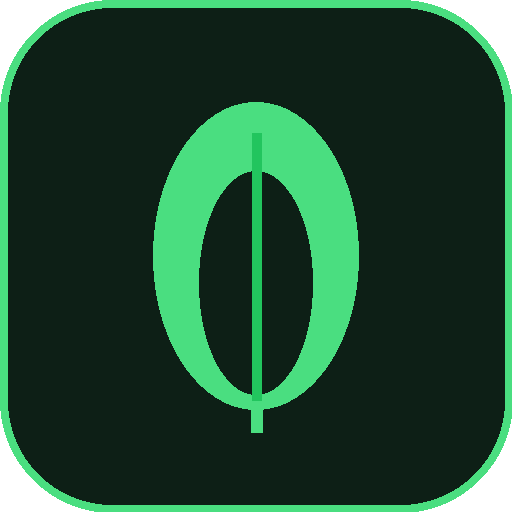
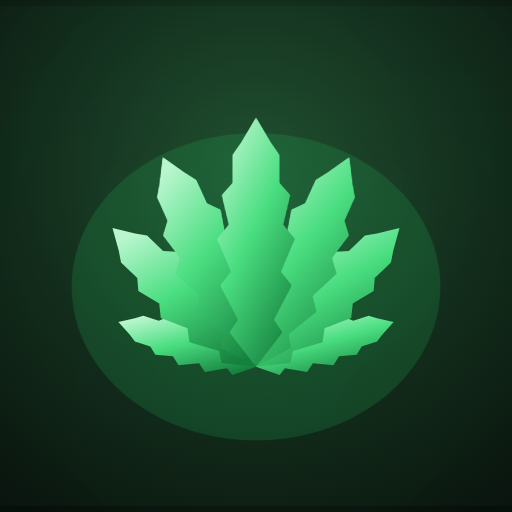
🌿 Wektorowe ikony zamiast emoji: liść marihuany jako znak, grafiki metod, nowe ikony PWA
- nowy icons.js: inline SVG (offline, dziedziczy kolor, skaluje się)
- 6 rysowanych grafik metod: dab, vape, waporyzator, joint, ciastko, buteleczka
- każda metoda ma własny kolor akcentu (ikona + kafelek w historii)
- znak aplikacji: liść marihuany (7 listków) — też w ikonach PWA 192/512/maskable
- ilustracja pustego stanu, ikony w przyciskach, modalu, toaście i liczniku limitu
- sw.js: cache v7 + icons.js w prekecie

diff --git a/icons.js b/icons.js
@@ -1,0 +1,92 @@
+/* ===== IKONY: wektorowe, inline SVG (offline, dziedziczą kolor, skalują się) ===== */
+(() => {
+  const ICONS = {
+    /* --- znak / logo: liść marihuany (7 listków) --- */
+    leaf: `<g fill="currentColor" stroke="none">
+      <path d="M12 21.8L13.52 22.34L13.86 21.9L15.28 22.14L15.65 21.59L16.97 21.71L17.33 21.13L18.46 21.04L18.78 20.51L19.77 20.19L20.11 19.74L20.83 18.93L19.77 18.7L19.23 18.54L18.24 18.86L17.67 18.61L16.71 19.2L16.08 18.95L15.08 19.82L14.46 19.6L13.45 20.63L12.91 20.47Z"/>
+      <path d="M12 21.8L11.09 20.47L10.55 20.63L9.54 19.6L8.92 19.82L7.92 18.95L7.29 19.2L6.33 18.61L5.76 18.86L4.77 18.54L4.23 18.7L3.17 18.93L3.89 19.74L4.23 20.19L5.22 20.51L5.54 21.04L6.67 21.13L7.03 21.71L8.35 21.59L8.72 22.14L10.14 21.9L10.48 22.34Z"/>
+      <path d="M12 21.8L14.21 21.56L14.37 20.79L16.27 20.23L16.4 19.33L18.11 18.68L18.21 17.75L19.55 16.95L19.62 16.11L20.66 15.11L20.81 14.34L21.21 12.91L19.76 13.25L18.99 13.38L17.96 14.38L17.11 14.42L16.26 15.74L15.33 15.8L14.62 17.49L13.71 17.59L13.09 19.47L12.32 19.6Z"/>
+      <path d="M12 21.8L11.68 19.6L10.91 19.47L10.29 17.59L9.38 17.49L8.67 15.8L7.74 15.74L6.89 14.42L6.04 14.38L5.01 13.38L4.24 13.25L2.79 12.91L3.19 14.34L3.34 15.11L4.38 16.11L4.45 16.95L5.79 17.75L5.89 18.68L7.6 19.33L7.73 20.23L9.63 20.79L9.79 21.56Z"/>
+      <path d="M12 21.8L14.25 20.59L14.09 19.71L15.88 18.29L15.63 17.27L17.17 15.84L16.88 14.81L17.97 13.38L17.68 12.44L18.35 10.93L18.19 10.05L17.99 8.35L16.59 9.34L15.83 9.81L15.15 11.32L14.27 11.73L13.93 13.5L12.97 13.97L12.94 16.07L12.01 16.57L12.16 18.85L11.39 19.31Z"/>
+      <path d="M12 21.8L12.61 19.31L11.84 18.85L11.99 16.57L11.06 16.07L11.03 13.97L10.07 13.5L9.73 11.73L8.85 11.32L8.17 9.81L7.41 9.34L6.01 8.35L5.81 10.05L5.65 10.93L6.32 12.44L6.03 13.38L7.12 14.81L6.83 15.84L8.37 17.27L8.12 18.29L9.91 19.71L9.75 20.59Z"/>
+      <path d="M12 21.8L13.7 19.6L13.15 18.8L14.3 16.6L13.6 15.7L14.5 13.6L13.75 12.7L14.2 10.8L13.5 10L13.5 8.2L12.95 7.4L12 5.8L11.05 7.4L10.5 8.2L10.5 10L9.8 10.8L10.25 12.7L9.5 13.6L10.4 15.7L9.7 16.6L10.85 18.8L10.3 19.6Z"/>
+    </g>
+    <path d="M12 21.4v2.2" stroke="currentColor" stroke-width="1.3" fill="none" stroke-linecap="round"/>`,
+
+    /* --- UI --- */
+    sliders: `<path d="M4.6 8h14.8"/><path d="M4.6 16h14.8"/>
+      <circle cx="9.4" cy="8" r="2.3"/><circle cx="15" cy="16" r="2.3"/>`,
+    bolt: `<path d="M13.5 2.6 5.1 13.2h5.4l-1 8.2 8.4-10.6h-5.4l1-8.2Z"/>`,
+    clock: `<circle cx="12" cy="12" r="8.6"/><path d="M12 7.2V12l3.3 2.1"/>`,
+    download: `<path d="M12 3.4v10.8"/><path d="M7.7 10.1 12 14.4l4.3-4.3"/>
+      <path d="M4.7 17.2v1.2a2.4 2.4 0 0 0 2.4 2.4h9.8a2.4 2.4 0 0 0 2.4-2.4v-1.2"/>`,
+    trash: `<path d="M4.2 6.8h15.6"/>
+      <path d="M9.5 6.8V5.2a1.4 1.4 0 0 1 1.4-1.4h2.2a1.4 1.4 0 0 1 1.4 1.4v1.6"/>
+      <path d="M6.6 6.8 7.4 19a2.1 2.1 0 0 0 2.1 2h5a2.1 2.1 0 0 0 2.1-2l.8-12.2"/>
+      <path d="M10.4 10.6v6.2M13.6 10.6v6.2"/>`,
+    close: `<path d="M6.4 6.4 17.6 17.6M17.6 6.4 6.4 17.6"/>`,
+    check: `<path d="M4.9 12.7 9.7 17.5 19.1 6.5"/>`,
+    alert: `<circle cx="12" cy="12" r="8.6"/><path d="M12 7.6v5"/>
+      <circle cx="12" cy="16.3" r="1" fill="currentColor" stroke="none"/>`,
+    sparkle: `<path d="M12 3.2l1.85 4.95L18.8 10l-4.95 1.85L12 16.8l-1.85-4.95L5.2 10l4.95-1.85L12 3.2Z"/>
+      <path d="M18.4 15.4l.75 2 2 .75-2 .75-.75 2-.75-2-2-.75 2-.75.75-2Z"/>`,
+
+    /* --- metody: rysowane obiekty --- */
+    dab: `<path d="M12 2.9c1.8 2.15 2.7 3.6 2.7 4.85a2.7 2.7 0 0 1-5.4 0c0-1.25.9-2.7 2.7-4.85Z"/>
+      <path d="M8.3 11.7h7.4l-1 5.15a2.15 2.15 0 0 1-2.11 1.75h-1.18a2.15 2.15 0 0 1-2.11-1.75l-1-5.15Z"/>
+      <path d="M12 18.6v2.3"/>`,
+
+    vape: `<rect x="8.6" y="9.5" width="6.8" height="11.2" rx="2.6"/>
+      <path d="M10.4 9.5V7.3a1.6 1.6 0 0 1 3.2 0v2.2"/>
+      <circle cx="12" cy="13.4" r="1.05" fill="currentColor" stroke="none"/>
+      <path d="M15.7 6.5c1.15-.95 1.15-2.3 0-3.25"/>
+      <path d="M18 8c1.5-1.25 1.5-3.05 0-4.3"/>`,
+
+    vapor: `<rect x="7.7" y="8.5" width="8.6" height="12.2" rx="3.1"/>
+      <path d="M10.3 8.5V6.8a1.7 1.7 0 0 1 3.4 0v1.7"/>
+      <rect x="9.9" y="11.3" width="4.2" height="3.3" rx="1.1"/>
+      <path d="M18.4 7.4c1.05-.9 1.05-2.15 0-3.05"/>`,
+
+    smoke: `<rect x="6.6" y="13.1" width="13.2" height="3.7" rx="1.75"/>
+      <path d="M17.1 13.4v3.1"/>
+      <circle cx="8.5" cy="14.95" r="1.15" fill="currentColor" stroke="none"/>
+      <path d="M9.5 11.3c1.25-1 1.25-2.4 0-3.4"/>
+      <path d="M12.7 11c1.6-1.3 1.6-3.1 0-4.4"/>`,
+
+    edible: `<path d="M12 3.6a8.4 8.4 0 1 0 0 16.8 8.4 8.4 0 0 0 0-16.8Z"/>
+      <circle cx="9.1" cy="9.9" r="1.15" fill="currentColor" stroke="none"/>
+      <circle cx="14.6" cy="8.9" r="1.15" fill="currentColor" stroke="none"/>
+      <circle cx="10.4" cy="14.8" r="1.15" fill="currentColor" stroke="none"/>
+      <circle cx="15.2" cy="13.9" r="1.15" fill="currentColor" stroke="none"/>
+      <circle cx="12.3" cy="11.9" r=".8" fill="currentColor" stroke="none"/>`,
+
+    oil: `<path d="M8.6 11.5h6.8a2 2 0 0 1 2 2v5.4a2 2 0 0 1-2 2H8.6a2 2 0 0 1-2-2v-5.4a2 2 0 0 1 2-2Z"/>
+      <path d="M10.4 11.5V9.8h3.2v1.7"/>
+      <path d="M9.9 6.3h4.2a1.1 1.1 0 0 1 1.1 1.1v2.4H8.8V7.4A1.1 1.1 0 0 1 9.9 6.3Z"/>
+      <path d="M12 3.1v3.2"/>
+      <path d="M9.4 16.2h5.2"/>`,
+  };
+
+  const SVG_ATTRS = 'viewBox="0 0 24 24" fill="none" stroke="currentColor" stroke-width="1.7" ' +
+    'stroke-linecap="round" stroke-linejoin="round" aria-hidden="true" focusable="false"';
+
+  function svgIcon(name, cls) {
+    const body = ICONS[name];
+    if (!body) return '';
+    return `<svg class="${cls || 'ico'}" ${SVG_ATTRS}>${body}</svg>`;
+  }
+
+  window.svgIcon = svgIcon;
+
+  function hydrate(root) {
+    (root || document).querySelectorAll('[data-icon]').forEach(el => {
+      if (el.dataset.iconDone) return;
+      el.dataset.iconDone = '1';
+      el.insertAdjacentHTML('afterbegin', svgIcon(el.dataset.icon, el.dataset.iconClass || 'ico'));
+    });
+  }
+
+  window.hydrateIcons = hydrate;
+  if (document.readyState === 'loading') document.addEventListener('DOMContentLoaded', () => hydrate());
+  else hydrate();
+})();

diff --git a/app.js b/app.js
@@ -1,10 +1,10 @@
 const METHODS = [
-  { id:'dab',    icon:'💧', name:'Dab' },
-  { id:'vape',   icon:'💨', name:'Vape' },
-  { id:'vapor',  icon:'🌬', name:'Waporyzator' },
-  { id:'smoke',  icon:'🚬', name:'Palenie' },
-  { id:'edible', icon:'🍪', name:'Edibles' },
-  { id:'oil',    icon:'🧴', name:'Olejek/Tincture' },
+  { id:'dab',    name:'Dab' },
+  { id:'vape',   name:'Vape' },
+  { id:'vapor',  name:'Waporyzator' },
+  { id:'smoke',  name:'Palenie' },
+  { id:'edible', name:'Edibles' },
+  { id:'oil',    name:'Olejek/Tincture' },
 ];
 
 const LS_ENTRIES = 'thc_entries_v1';
@@ -37,8 +37,9 @@ function sameDay(a, b) {
 /* --- metody --- */
 function renderMethods() {
   $('methods').innerHTML = METHODS.map(m =>
-    `<button class="method ${m.id === selectedMethod ? 'active' : ''}" data-id="${m.id}">
-       <span class="m-icon">${m.icon}</span><span class="m-name">${m.name}</span>
+    `<button class="method m-${m.id} ${m.id === selectedMethod ? 'active' : ''}" data-id="${m.id}"
+       aria-pressed="${m.id === selectedMethod}">
+       <span class="m-icon">${svgIcon(m.id)}</span><span class="m-name">${m.name}</span>
      </button>`).join('');
   document.querySelectorAll('.method').forEach(b =>
     b.onclick = () => { selectedMethod = b.dataset.id; renderMethods(); });
@@ -64,13 +65,14 @@ function renderStats() {
   if (settings.goal > 0) {
     const pct = Math.min(100, todayCount / settings.goal * 100);
     fill.style.width = pct + '%';
-    fill.classList.toggle('over', todayCount > settings.goal);
-    txt.textContent = todayCount > settings.goal
-      ? `⚠ Limit przekroczony: ${todayCount}/${settings.goal}`
-      : `Dzisiejszy limit: ${todayCount}/${settings.goal}`;
+    const over = todayCount > settings.goal;
+    fill.classList.toggle('over', over);
+    txt.classList.toggle('over', over);
+    txt.innerHTML = (over ? svgIcon('alert') : '') +
+      `<span>${over ? 'Limit przekroczony' : 'Dzisiejszy limit'}: ${todayCount}/${settings.goal}</span>`;
   } else {
     fill.style.width = '0';
-    txt.textContent = 'Ustaw limit dzienny w ustawieniach ⚙';
+    txt.innerHTML = svgIcon('sliders') + '<span>Ustaw limit dzienny w ustawieniach</span>';
   }
 }
 
@@ -98,19 +100,25 @@ function methodOf(id) { return METHODS.find(m => m.id === id) || METHODS[0]; }
 function renderHistory() {
   const el = $('history');
   const sorted = [...entries].sort((a, b) => b.t - a.t).slice(0, 100);
-  if (!sorted.length) { el.innerHTML = '<div class="empty">Brak wpisów — zapisz pierwszą sesję 🌿</div>'; return; }
+  if (!sorted.length) {
+    el.innerHTML = `<div class="empty">
+      <span class="empty-art">${svgIcon('leaf')}</span>
+      <div class="empty-txt">Brak wpisów — zapisz pierwszą sesję, żeby zacząć śledzić swój rytm</div>
+    </div>`;
+    return;
+  }
   el.innerHTML = sorted.map(e => {
     const m = methodOf(e.m);
     const d = new Date(e.t);
     const when = d.toLocaleDateString('pl-PL', { day: 'numeric', month: 'short' }) + ' ' +
                  d.toLocaleTimeString('pl-PL', { hour: '2-digit', minute: '2-digit' });
     const extra = [e.amount ? e.amount : '', e.note || ''].filter(Boolean).join(' · ');
-    return `<div class="entry">
-      <span class="e-icon">${m.icon}</span>
+    return `<div class="entry m-${m.id}">
+      <span class="e-icon">${svgIcon(m.id)}</span>
       <div class="e-main"><div class="e-method">${m.name}</div>
       ${extra ? `<div class="e-note">${extra}</div>` : ''}</div>
       <div class="e-time">${when}</div>
-      <button class="e-del" data-id="${e.id}" title="Usuń">✕</button>
+      <button class="e-del" data-id="${e.id}" title="Usuń" aria-label="Usuń wpis">${svgIcon('close')}</button>
     </div>`;
   }).join('');
   el.querySelectorAll('.e-del').forEach(b => b.onclick = () => {
@@ -134,7 +142,7 @@ function addEntry(ts) {
   $('amountInput').value = ''; $('noteInput').value = '';
   renderAll();
   const m = methodOf(selectedMethod);
-  toast(`${m.icon} Zapisano: ${m.name}`);
+  toast(`Zapisano: ${m.name}`, m.id);
   // eksplozja cząsteczek z miejsca kliknięcia
   const btn = $('logNow').getBoundingClientRect();
   if (window.fxBurst) fxBurst(btn.left + btn.width / 2, btn.top + btn.height / 2);
@@ -155,7 +163,7 @@ $('cancelTime').onclick = closeTimeModal;
 $('timeModal').addEventListener('click', e => { if (e.target === $('timeModal')) closeTimeModal(); });
 $('confirmTime').onclick = () => {
   const v = $('customTime').value;
-  if (!v) { toast('⚠ Wybierz datę i godzinę'); return; }
+  if (!v) { toast('Wybierz datę i godzinę', 'alert'); return; }
   addEntry(new Date(v).getTime());
   closeTimeModal();
 };
@@ -185,21 +193,22 @@ $('saveSettings').onclick = () => {
   settings.nick = $('nickInput').value.trim();
   save(); renderAll();
   $('settingsModal').classList.add('hidden');
-  toast('✅ Zapisano ustawienia');
+  toast('Zapisano ustawienia', 'check');
 };
 $('wipeBtn').onclick = () => {
   if (confirm('Na pewno usunąć WSZYSTKIE wpisy? Tego nie da się cofnąć.')) {
     entries = []; save(); renderAll();
     $('settingsModal').classList.add('hidden');
-    toast('🗑 Dane usunięte');
+    toast('Dane usunięte', 'trash');
   }
 };
 
 /* --- toast --- */
 let toastTimer;
-function toast(msg) {
+function toast(msg, ico) {
   const t = $('toast');
-  t.textContent = msg; t.classList.remove('hidden');
+  t.innerHTML = (ico ? svgIcon(ico) : '') + `<span>${msg}</span>`;
+  t.classList.remove('hidden');
   clearTimeout(toastTimer);
   toastTimer = setTimeout(() => t.classList.add('hidden'), 2200);
 }

diff --git a/style.css b/style.css
@@ -240,3 +240,68 @@ footer{text-align:center;color:#4a6355;font-size:11px;margin-top:24px}
 }
 
 input,button,textarea,select{font-family:inherit}
+
+/* ===== IKONY I GRAFIKA (v1.1) ===== */
+svg.ico{width:1.15em;height:1.15em;flex:none;display:block}
+.btn{display:inline-flex;align-items:center;justify-content:center;gap:8px}
+.icon-btn{display:inline-flex;align-items:center;justify-content:center;width:42px;height:42px;
+  padding:0;font-size:19px;color:var(--muted);transition:.15s}
+.icon-btn:hover{color:var(--accent);background:var(--card2);box-shadow:0 0 16px rgba(74,222,128,.18)}
+.icon-btn svg{width:20px;height:20px}
+h2.with-ico{display:flex;align-items:center;gap:8px;color:var(--text);font-size:14px;
+  text-transform:none;letter-spacing:.4px}
+h2.with-ico svg{width:18px;height:18px;color:var(--accent)}
+
+/* znak / logo */
+.brand{display:flex;align-items:center;gap:11px}
+.logo-mark{width:30px;height:30px;display:block;color:var(--accent);
+  filter:drop-shadow(0 0 10px rgba(74,222,128,.55))}
+.logo-mark svg{width:100%;height:100%}
+
+/* metody: ikona + własny kolor */
+.method{--m:var(--accent)}
+.m-dab{--m:#fcd34d}.m-vape{--m:#67e8f9}.m-vapor{--m:#4ade80}
+.m-smoke{--m:#fdba74}.m-edible{--m:#f9a8d4}.m-oil{--m:#c4b5fd}
+.method .m-icon{display:flex;align-items:center;justify-content:center;height:32px;
+  color:var(--m);transition:transform .2s}
+.method .m-icon svg{width:29px;height:29px;filter:drop-shadow(0 2px 8px rgba(0,0,0,.5))}
+.method:hover{border-color:rgba(74,222,128,.35);background:#0e1d14;
+  border-color:color-mix(in srgb,var(--m) 40%,transparent);
+  background:color-mix(in srgb,var(--m) 7%,#0e1d14)}
+.method.active{border-color:var(--m);background:#15301f;box-shadow:0 0 20px rgba(74,222,128,.22);
+  background:color-mix(in srgb,var(--m) 12%,#0e1d14);
+  box-shadow:0 0 20px color-mix(in srgb,var(--m) 26%,transparent)}
+.method.active .m-icon{transform:scale(1.12) translateY(-1px)}
+.method.active .m-name{color:var(--m)}
+@keyframes activePulse{
+  0%,100%{box-shadow:0 0 14px rgba(74,222,128,.2);box-shadow:0 0 14px color-mix(in srgb,var(--m) 20%,transparent)}
+  50%{box-shadow:0 0 26px rgba(74,222,128,.45);box-shadow:0 0 26px color-mix(in srgb,var(--m) 45%,transparent)}
+}
+
+/* historia */
+.entry .e-icon{display:flex;align-items:center;justify-content:center;width:34px;height:34px;
+  flex:none;border-radius:11px;background:#0b1a11;color:var(--m,var(--accent));
+  border:1px solid rgba(74,222,128,.22);
+  border:1px solid color-mix(in srgb,var(--m,var(--accent)) 22%,transparent)}
+.entry .e-icon svg{width:19px;height:19px}
+.entry .e-del{display:flex;align-items:center;justify-content:center;width:26px;height:26px;
+  border-radius:8px;transition:.15s}
+.entry .e-del svg{width:14px;height:14px}
+.entry .e-del:hover{background:#2a1215;color:var(--danger)}
+
+/* pusty stan */
+.empty{display:flex;flex-direction:column;align-items:center;gap:10px;padding:26px 12px 22px}
+.empty-art{width:74px;height:74px;color:var(--accent);opacity:.85;
+  filter:drop-shadow(0 0 18px rgba(74,222,128,.3))}
+.empty-art svg{width:100%;height:100%}
+.empty-txt{font-size:13px;line-height:1.5;max-width:230px;text-align:center}
+
+/* toast */
+.toast{display:inline-flex;align-items:center;gap:8px}
+.toast svg{width:16px;height:16px}
+
+/* tekst limitu z ikoną */
+.goal-text{display:flex;align-items:center;justify-content:center;gap:6px}
+.goal-text svg{width:14px;height:14px;color:var(--accent)}
+.goal-text.over{color:var(--danger)}
+.goal-text.over svg{color:var(--danger)}

diff --git a/index.html b/index.html
@@ -30,8 +30,11 @@
 <div class="app">
 
   <header>
-    <div class="logo">🌿 <span>THC</span> Dziennik</div>
-    <button id="settingsBtn" class="icon-btn" title="Ustawienia">⚙</button>
+    <div class="brand">
+      <span class="logo-mark" data-icon="leaf"></span>
+      <div class="logo"><span>THC</span> Dziennik</div>
+    </div>
+    <button id="settingsBtn" class="icon-btn" title="Ustawienia" aria-label="Ustawienia" data-icon="sliders"></button>
   </header>
 
   <!-- KARTA STATUSU -->
@@ -69,8 +72,8 @@
       <input type="text" id="noteInput" maxlength="80" placeholder="Notatka (nastrój, powód…)">
     </div>
     <div class="log-actions">
-      <button class="btn primary" id="logNow">⚡ Zapisz teraz</button>
-      <button class="btn ghost" id="logCustom">🕐 Wybierz godzinę</button>
+      <button class="btn primary" id="logNow" data-icon="bolt">Zapisz teraz</button>
+      <button class="btn ghost" id="logCustom" data-icon="clock">Wybierz godzinę</button>
     </div>
   </section>
 
@@ -84,18 +87,18 @@
   <section class="card">
     <div class="hist-head">
       <h2>Historia</h2>
-      <button class="btn ghost small" id="exportBtn">⬇ Eksport JSON</button>
+      <button class="btn ghost small" id="exportBtn" data-icon="download">Eksport JSON</button>
     </div>
     <div id="history" class="history"></div>
   </section>
 
-  <footer>dane zapisują się lokalnie na tym urządzeniu · v1.0</footer>
+  <footer>dane zapisują się lokalnie na tym urządzeniu · v1.1</footer>
 </div>
 
 <!-- MODAL USTAWIEŃ -->
 <div class="modal hidden" id="settingsModal">
   <div class="modal-box">
-    <h2>⚙ Ustawienia</h2>
+    <h2 class="with-ico"><span data-icon="sliders"></span>Ustawienia</h2>
     <label>Dzienny limit sesji (0 = bez limitu)
       <input type="number" id="goalInput" min="0" max="50">
     </label>
@@ -106,14 +109,14 @@
       <button class="btn primary" id="saveSettings">Zapisz</button>
       <button class="btn ghost" id="closeSettings">Anuluj</button>
     </div>
-    <button class="btn danger small" id="wipeBtn">🗑 Usuń wszystkie dane</button>
+    <button class="btn danger small" id="wipeBtn" data-icon="trash">Usuń wszystkie dane</button>
   </div>
 </div>
 
 <!-- MODAL WŁASNEJ GODZINY -->
 <div class="modal hidden" id="timeModal">
   <div class="modal-box time-box">
-    <h2>🕐 Kiedy to było?</h2>
+    <h2 class="with-ico"><span data-icon="clock"></span>Kiedy to było?</h2>
     <div class="quick-times">
       <button class="chip" data-min="15">15 min temu</button>
       <button class="chip" data-min="30">30 min temu</button>
@@ -132,6 +135,7 @@
 
 <div class="toast hidden" id="toast"></div>
 
+<script src="icons.js"></script>
 <script src="fx.js"></script>
 <script src="app.js"></script>
 <script>

diff --git a/sw.js b/sw.js
@@ -1,5 +1,5 @@
-const CACHE = 'thc-dziennik-v6';
-const ASSETS = ['./', './index.html', './style.css', './app.js', './fx.js', './manifest.webmanifest', './fonts/chakra-400.woff2', './fonts/chakra-400ext.woff2', './fonts/chakra-600.woff2', './fonts/chakra-600ext.woff2', './fonts/chakra-700.woff2', './fonts/chakra-700ext.woff2',
+const CACHE = 'thc-dziennik-v7';
+const ASSETS = ['./', './index.html', './style.css', './icons.js', './app.js', './fx.js', './manifest.webmanifest', './fonts/chakra-400.woff2', './fonts/chakra-400ext.woff2', './fonts/chakra-600.woff2', './fonts/chakra-600ext.woff2', './fonts/chakra-700.woff2', './fonts/chakra-700ext.woff2',
   './icons/icon-192.png', './icons/icon-512.png'];
 
 self.addEventListener('install', e => {
